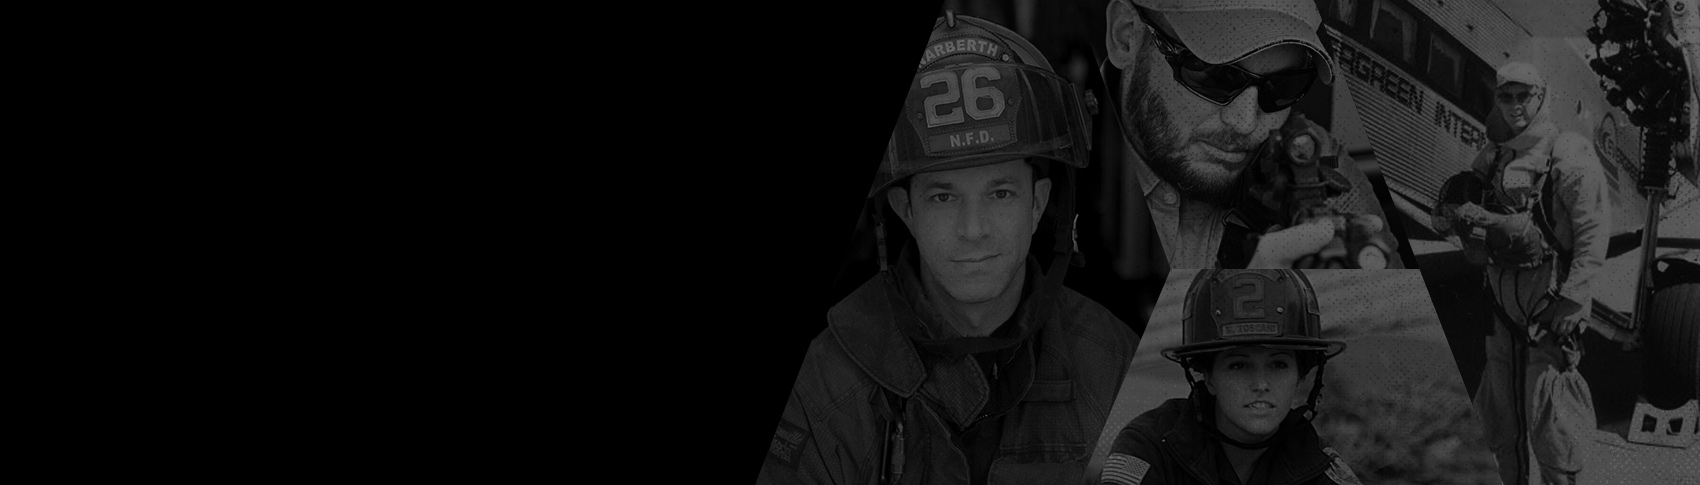
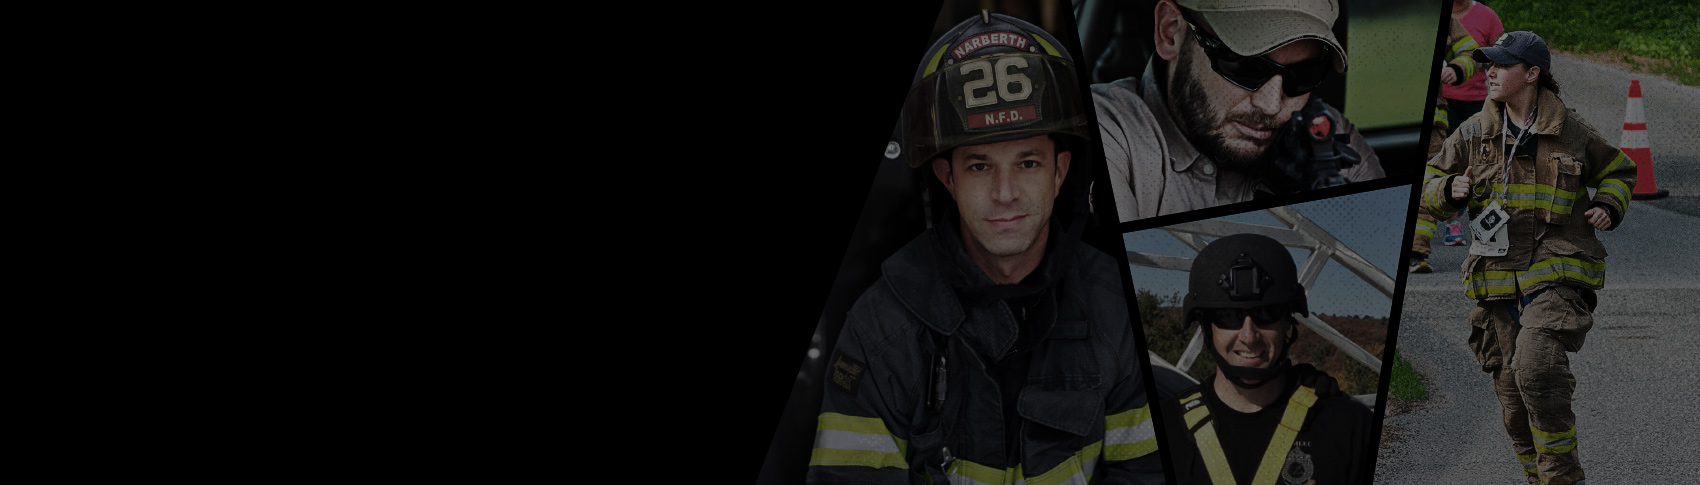
new images new bio

diff --git a/dev/team.html b/dev/team.html
@@ -165,7 +165,9 @@
 					</div>
 				</div>
 			</section>
-
+			<div class="l-contain mobile-home-gravity-image">
+				<img src="i/mobileimages/header_mobile_team.jpg">
+			</div>
 			<section class="l-band u-white c-team edge--both--reverse">
 				<div class="c-team-member l-contain">
 					<div class="l-one-third">
@@ -185,7 +187,7 @@
 					<div class="l-two-third">
 						<h3>Eric Potterat, PH.D.</h3>
 						<span class="u-subtitle">Director of Performance</span>
-						<p>Dr. Potterat is a Clinical, Performance and Sport Psychologist who is considered one of the leading experts in high performance psychology, whole-person wellness, performance optimization, decision-making and teamwork under pressure, mental skills training, and individual and organizational resilience. He retired as a Commander in the Navy after 20 years of service and spent the last 10 years of his active duty time developing and implementing ‘neck-up’ programs for the US Navy SEALs. For the last 2 decades, he has focused his research and practice on teachable and actionable mental toughness training, operational wellness, stress resilience, character development, selection, decision-making under stress, and elite human performance in extreme environments. He is also credited for developing and implementing the Mental Toughness Training Program for the U.S. Navy SEALs and embedding it into their training pipeline, as well as creating the Performance Psychology program for Red Bull High Performance athletes. He has 30 peer-reviewed, professional journal and/or chapter publications, has been featured on national media, and has served as a consultant and speaker on human factors, high performer wellness, peak performance techniques and mental toughness to many organizations including, NASA, the U.S. Olympic Training Center, many law enforcement and government agencies, and numerous professional and collegiate sports teams.  Eric is passionate about taking the lessons learned from the wellness programs he developed for some of our Nation’s greatest warriors and applying them to our Nation’s first responders and veterans.</p>
+						<p>Dr. Potterat is a Clinical, Performance and Sport Psychologist who is considered one of the leading experts in high performance psychology, whole-person wellness, performance optimization, decision-making and teamwork under pressure, mental skills training, and individual and organizational resilience. He retired as a Commander in the Navy after 20 years of service and spent the last 10 years of his active duty time developing and implementing ‘neck-up’ programs for the US Navy SEALs. He is also credited for creating the Performance Psychology program for Red Bull High Performance athletes. He has 30 peer-reviewed, professional journal and/or chapter publications, has been featured on national media, and has served as a consultant and speaker on human factors, high performer wellness, peak performance techniques and mental toughness to many organizations including, NASA, the U.S. Olympic Training Center, many law enforcement and government agencies, and numerous professional and collegiate sports teams.</p>
 					</div>
 				</div>
 

diff --git a/dev/how_it_works.html b/dev/how_it_works.html
@@ -164,7 +164,9 @@
 					</div>
 				</div>
 			</section>
-
+			<div class="l-contain mobile-home-gravity-image">
+				<img src="i/mobileimages/header_mobile_main.jpg">
+			</div>
 			<section class="l-band u-red c-how-intro edge--top--reverse">
 				<div class="l-contain">
 					<div class="l-half-left">

diff --git a/dev/about_jumpline.html b/dev/about_jumpline.html
@@ -165,7 +165,9 @@
 					</div>
 				</div>
 			</section>
-
+			<div class="l-contain mobile-home-gravity-image">
+				<img src="i/mobileimages/header_mobile_main.jpg">
+			</div>
 			<section class="l-band u-white edge--top--reverse">
 				<div class="l-contain">
 					<div class="l-half-left">

diff --git a/dev/get_involved.html b/dev/get_involved.html
@@ -165,7 +165,9 @@
 					</div>
 				</div>
 			</section>
-
+			<div class="l-contain mobile-home-gravity-image">
+				<img src="i/mobileimages/header_mobile_main.jpg">
+			</div>
 			<section class="l-band u-white c-get-involved edge--both--reverse">
 				<div class="l-contain">
 
